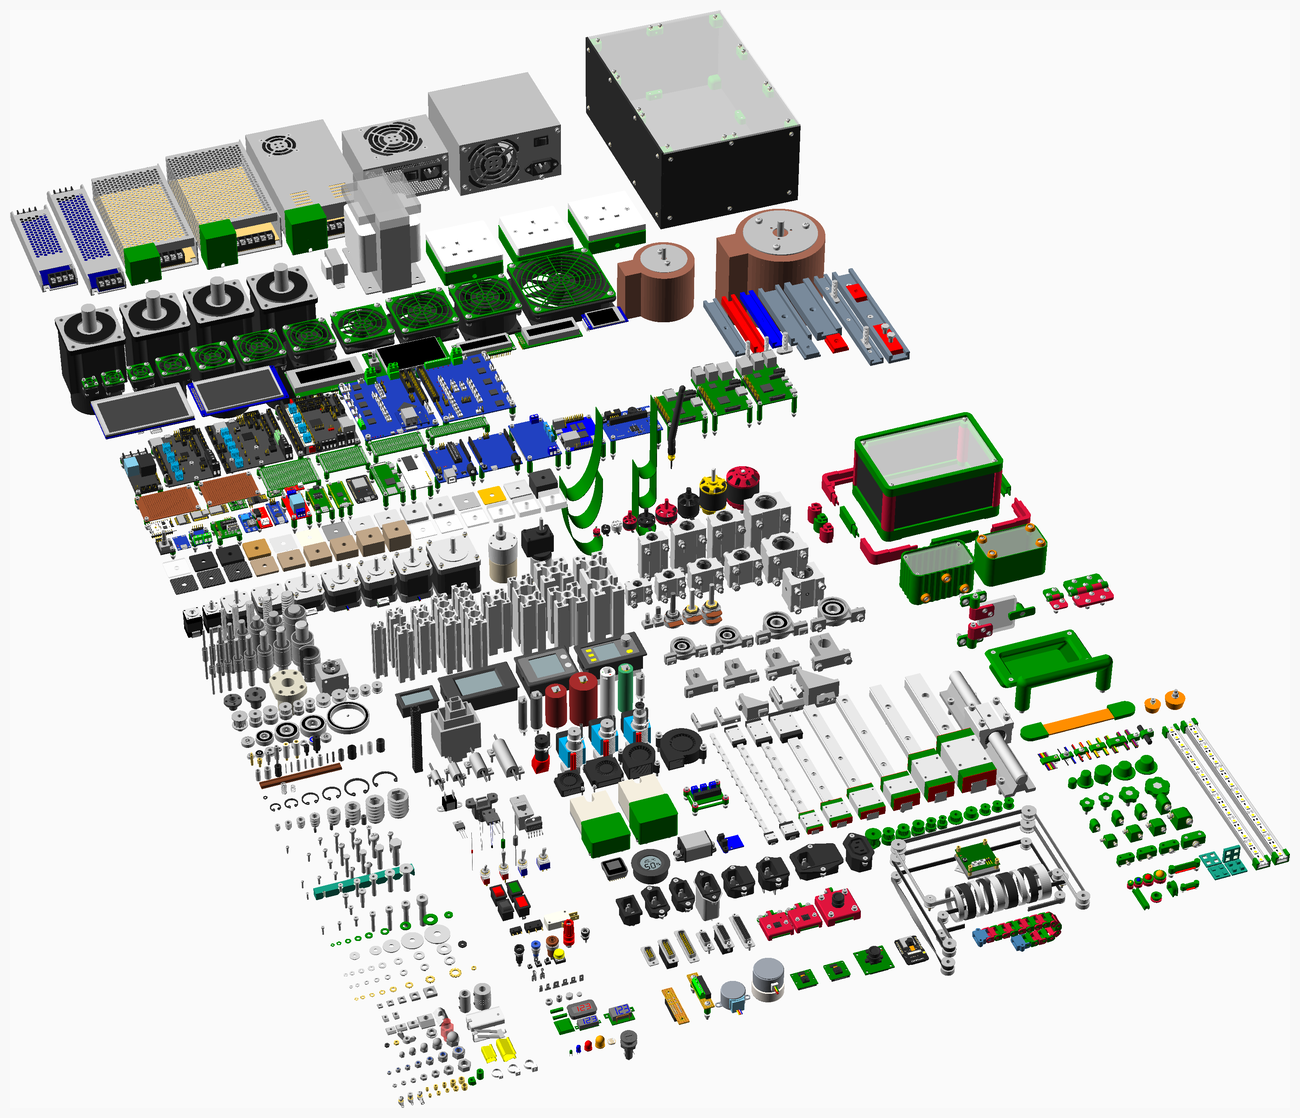
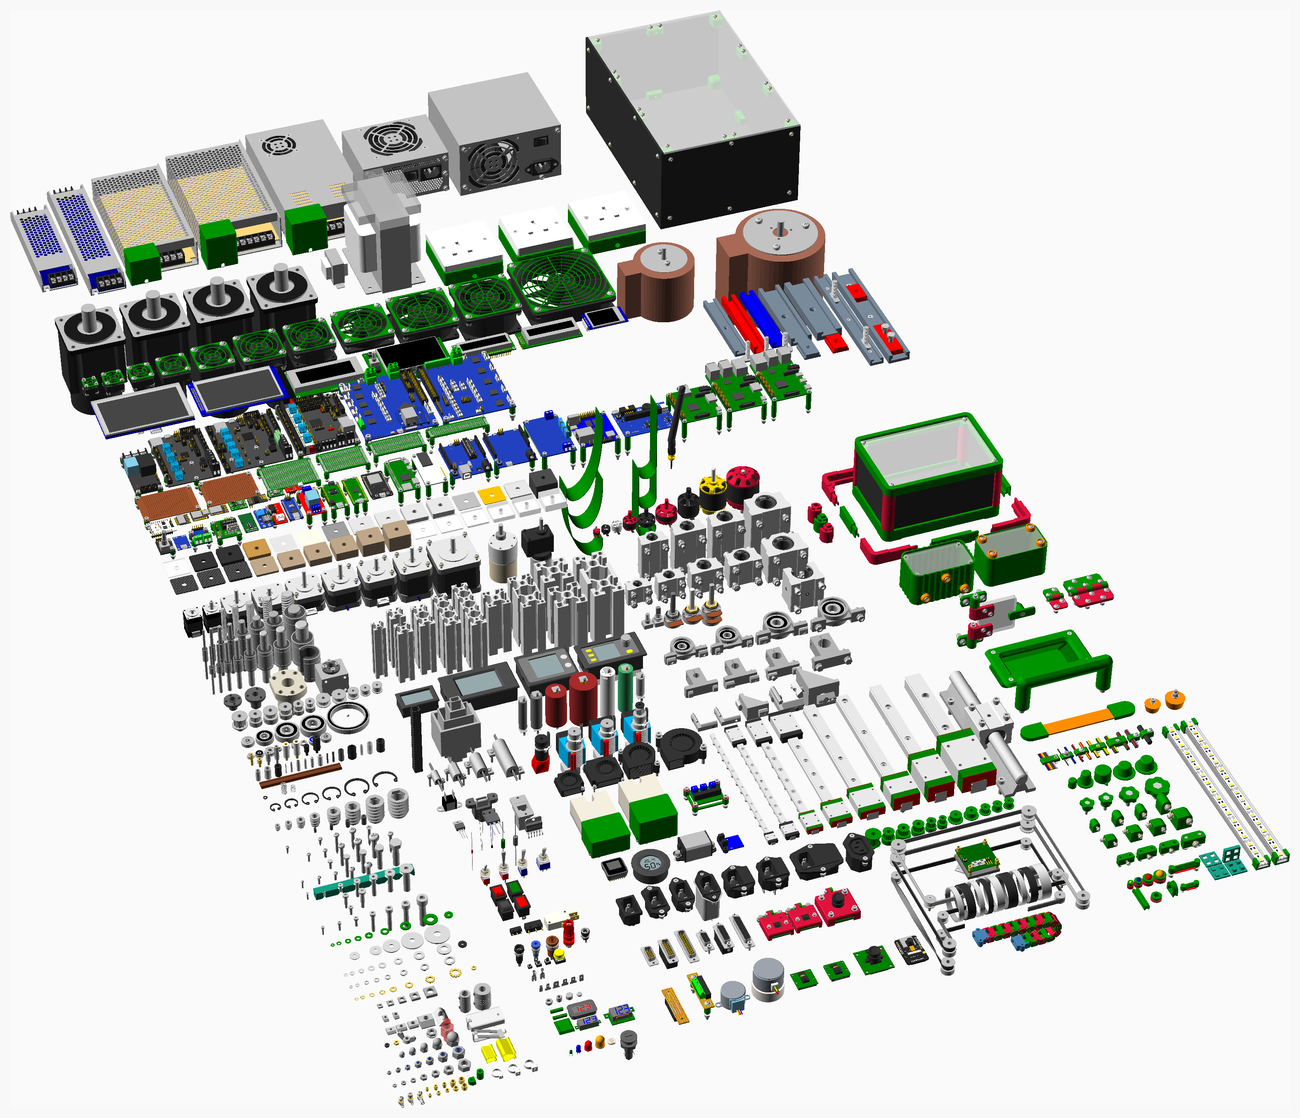
Dpdated images and readme.

Changed region(s): [[0.1846, 0.3041, 0.6462, 0.4866]]

diff --git a/readme.md b/readme.md
@@ -2884,6 +2884,7 @@ PCBs and perfboard with optional components. The shape can be a rectangle with o
 |   1 | `pcb(Melzi)` |  Melzi electronics - not shown |
 |   6 |  |  Micro SD card |
 |   1 |  |  Micro SD card - not shown |
+|   1 | `pcb(RCWL-0516)` |  Microwave Radar Sensor |
 |   1 | `molex_254(2)` |  Molex KK header 2 way - not shown |
 |   1 | `molex_254(3)` |  Molex KK header 3 way - not shown |
 |  20 | `nut(M2_nut, nyloc = true)` |  Nut M2 x 1.6mm nyloc |
@@ -2911,8 +2912,7 @@ PCBs and perfboard with optional components. The shape can be a rectangle with o
 |   8 | `screw(M2_cap_screw, 20)` |  Screw M2 cap x 20mm |
 |   4 | `screw(M2_cap_screw, 25)` |  Screw M2 cap x 25mm |
 |   2 | `screw(M2p5_cap_screw, 20)` |  Screw M2.5 cap x 20mm |
-|   4 | `screw(M2p5_cap_screw, 25)` |  Screw M2.5 cap x 25mm |
-|   4 | `screw(M2p5_cap_screw, 30)` |  Screw M2.5 cap x 30mm |
+|   8 | `screw(M2p5_cap_screw, 30)` |  Screw M2.5 cap x 30mm |
 |  12 | `screw(M2p5_cap_screw, 35)` |  Screw M2.5 cap x 35mm |
 |   4 | `screw(M2p5_dome_screw, 25)` |  Screw M2.5 dome x 25mm |
 |   4 | `screw(M2p5_pan_screw, 20)` |  Screw M2.5 pan x 20mm |
@@ -2920,8 +2920,7 @@ PCBs and perfboard with optional components. The shape can be a rectangle with o
 |  19 | `screw(M3_cap_screw, 16)` |  Screw M3 cap x 16mm |
 |  13 | `screw(M3_cap_screw, 20)` |  Screw M3 cap x 20mm |
 |   4 | `screw(M3_cap_screw, 25)` |  Screw M3 cap x 25mm |
-|   8 | `screw(M3_cap_screw, 30)` |  Screw M3 cap x 30mm |
-|   3 | `screw(M3_cap_screw, 35)` |  Screw M3 cap x 35mm |
+|  11 | `screw(M3_cap_screw, 35)` |  Screw M3 cap x 35mm |
 |   4 | `screw(M4_cap_screw, 20)` |  Screw M4 cap x 20mm |
 |   4 | `screw(M4_cap_screw, 25)` |  Screw M4 cap x 25mm |
 |   1 | `pcb(XIAO)` |  Seeeduino XIAO |
@@ -2941,24 +2940,24 @@ PCBs and perfboard with optional components. The shape can be a rectangle with o
 | Qty | Filename |
 | ---:|:--- |
 |   4 | pcb_spacer20100.stl |
-|   4 | pcb_spacer20140.stl |
+|   4 | pcb_spacer20150.stl |
 |   4 | pcb_spacer2070.stl |
 |   4 | pcb_spacer2080.stl |
 |   4 | pcb_spacer2090.stl |
-|   2 | pcb_spacer25100.stl |
-|   4 | pcb_spacer25130.stl |
-|   4 | pcb_spacer25160.stl |
+|   2 | pcb_spacer25110.stl |
+|   4 | pcb_spacer25140.stl |
 |   4 | pcb_spacer25170.stl |
-|   4 | pcb_spacer25180_2.stl |
+|   4 | pcb_spacer25180.stl |
 |   4 | pcb_spacer25190_2.stl |
-|   4 | pcb_spacer25230.stl |
+|   4 | pcb_spacer25200_2.stl |
 |   4 | pcb_spacer25240.stl |
 |   4 | pcb_spacer25250.stl |
+|   4 | pcb_spacer25260.stl |
 |   4 | pcb_spacer2580.stl |
-|   4 | pcb_spacer30120.stl |
-|   4 | pcb_spacer30200.stl |
+|   4 | pcb_spacer30130.stl |
 |   4 | pcb_spacer30210.stl |
-|   3 | pcb_spacer30220.stl |
+|   4 | pcb_spacer30220.stl |
+|   3 | pcb_spacer30230.stl |
 |  10 | pcb_spacer3050.stl |
 |   9 | pcb_spacer3060.stl |
 |   9 | pcb_spacer3070.stl |
